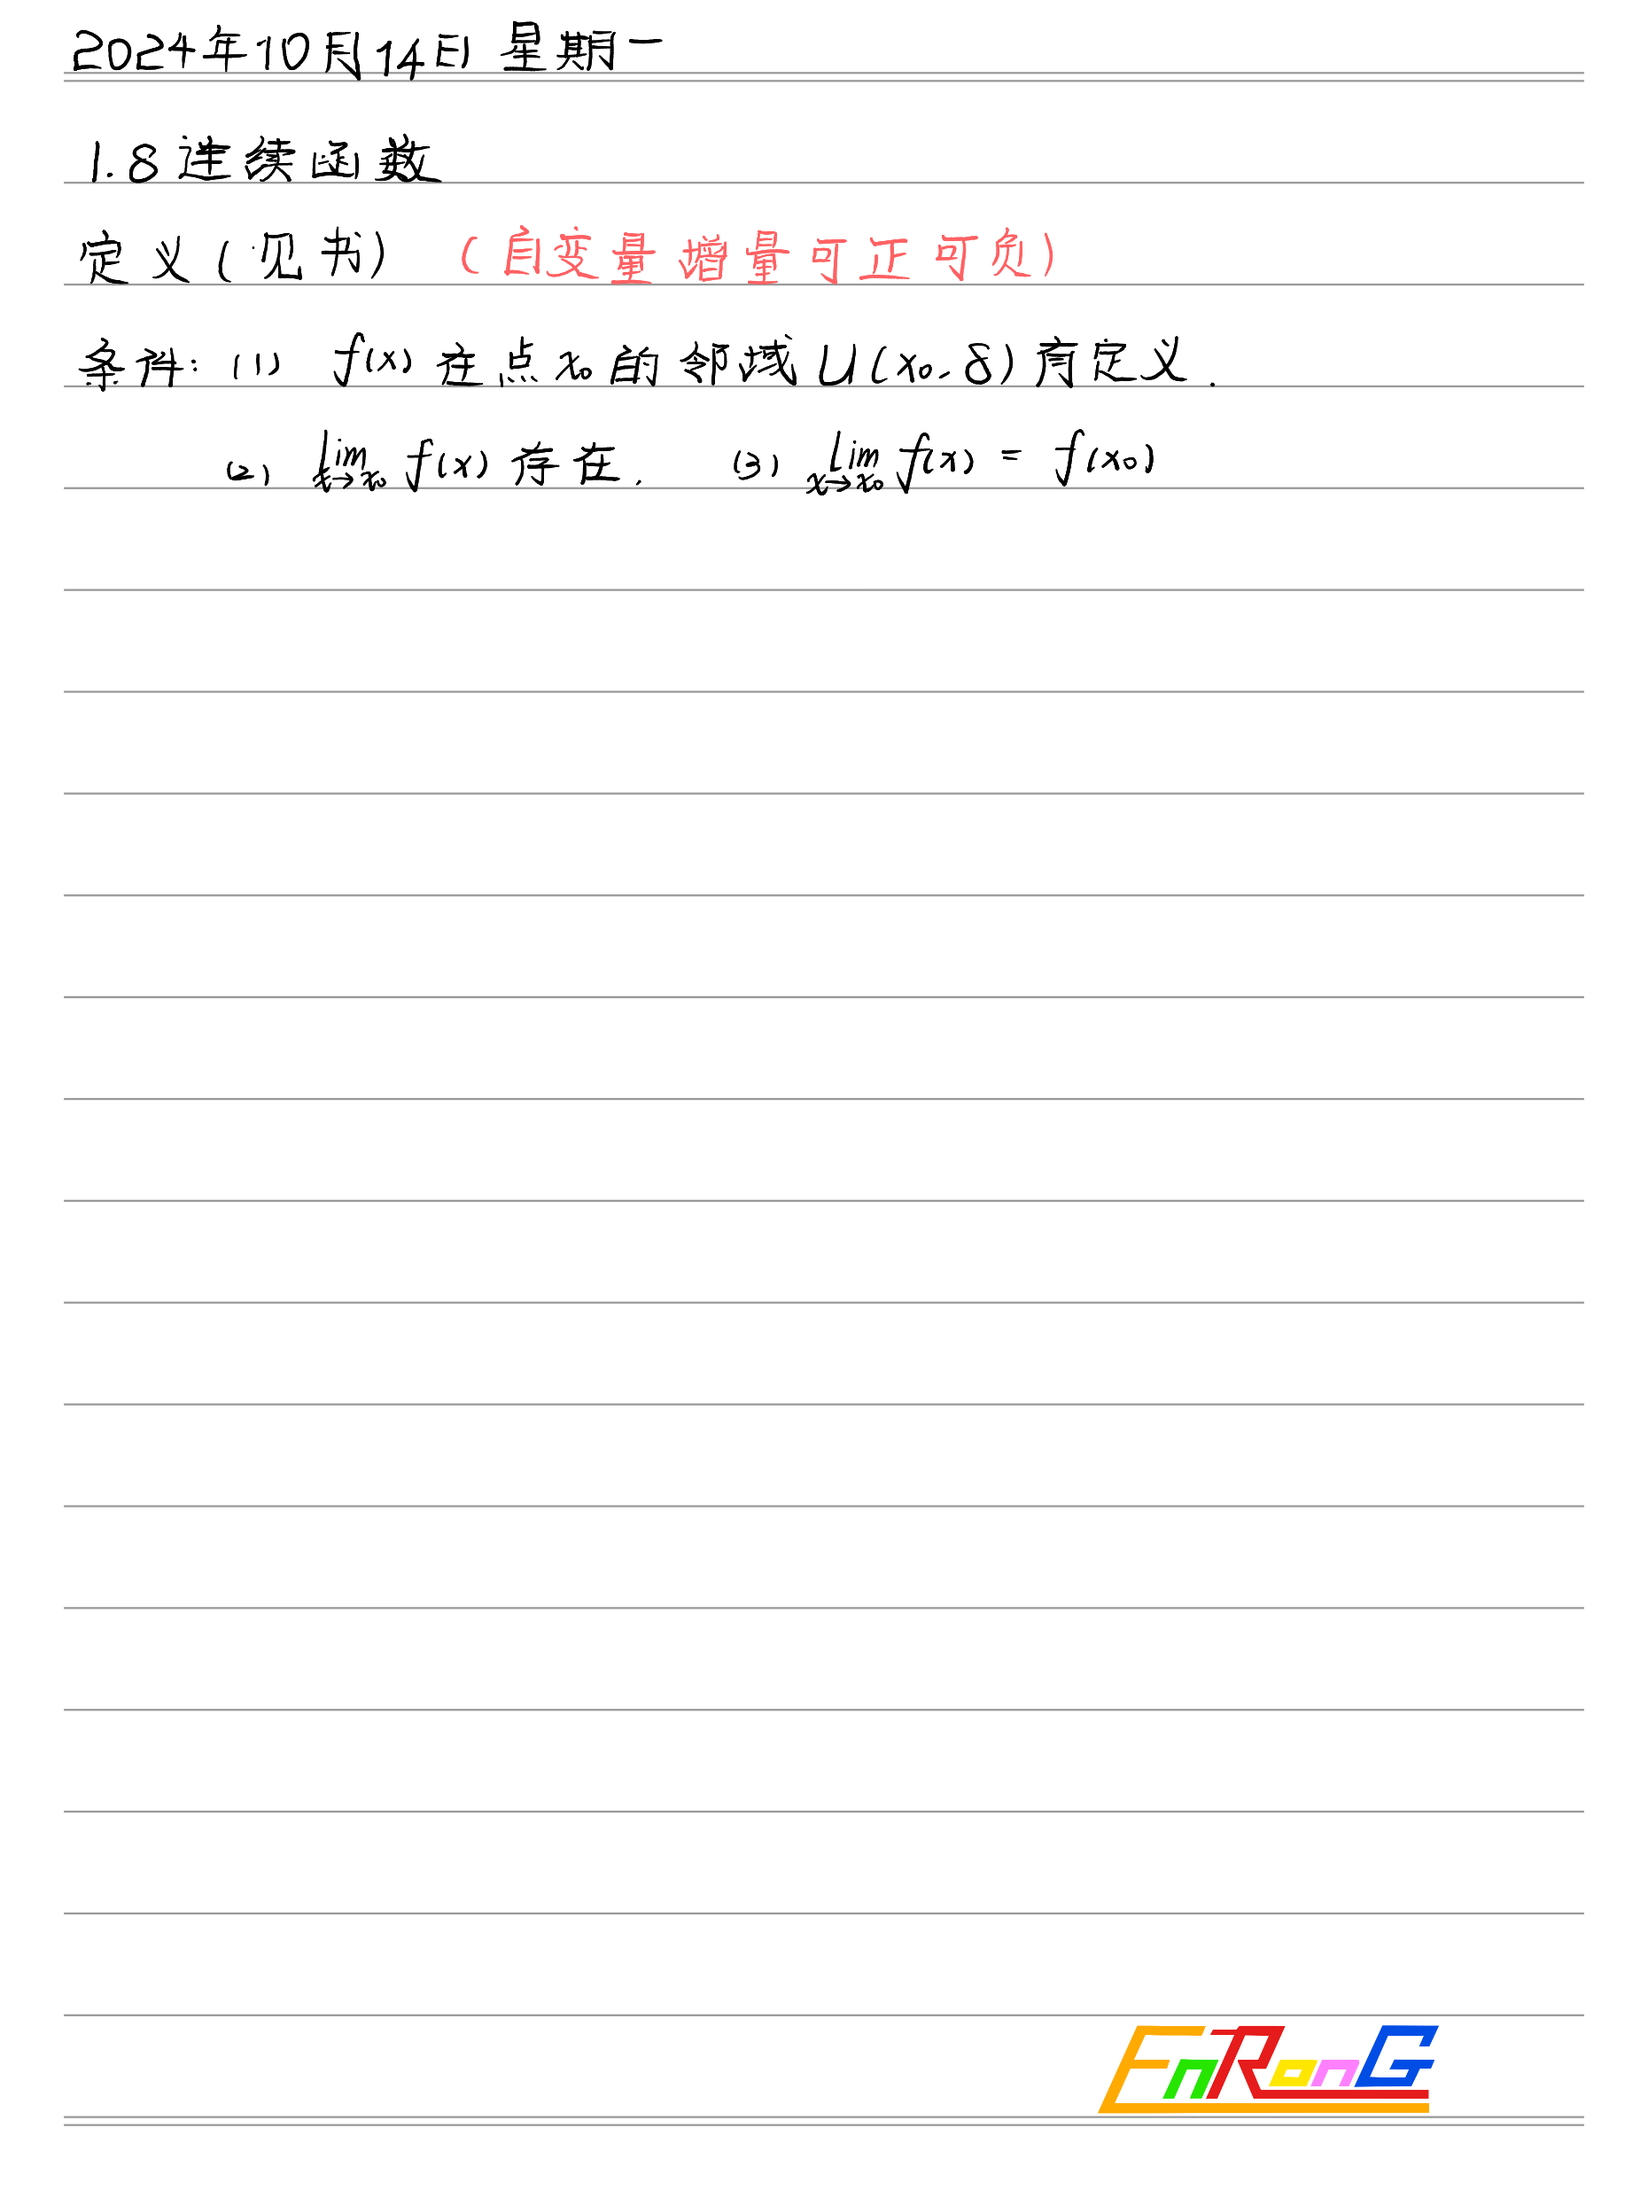
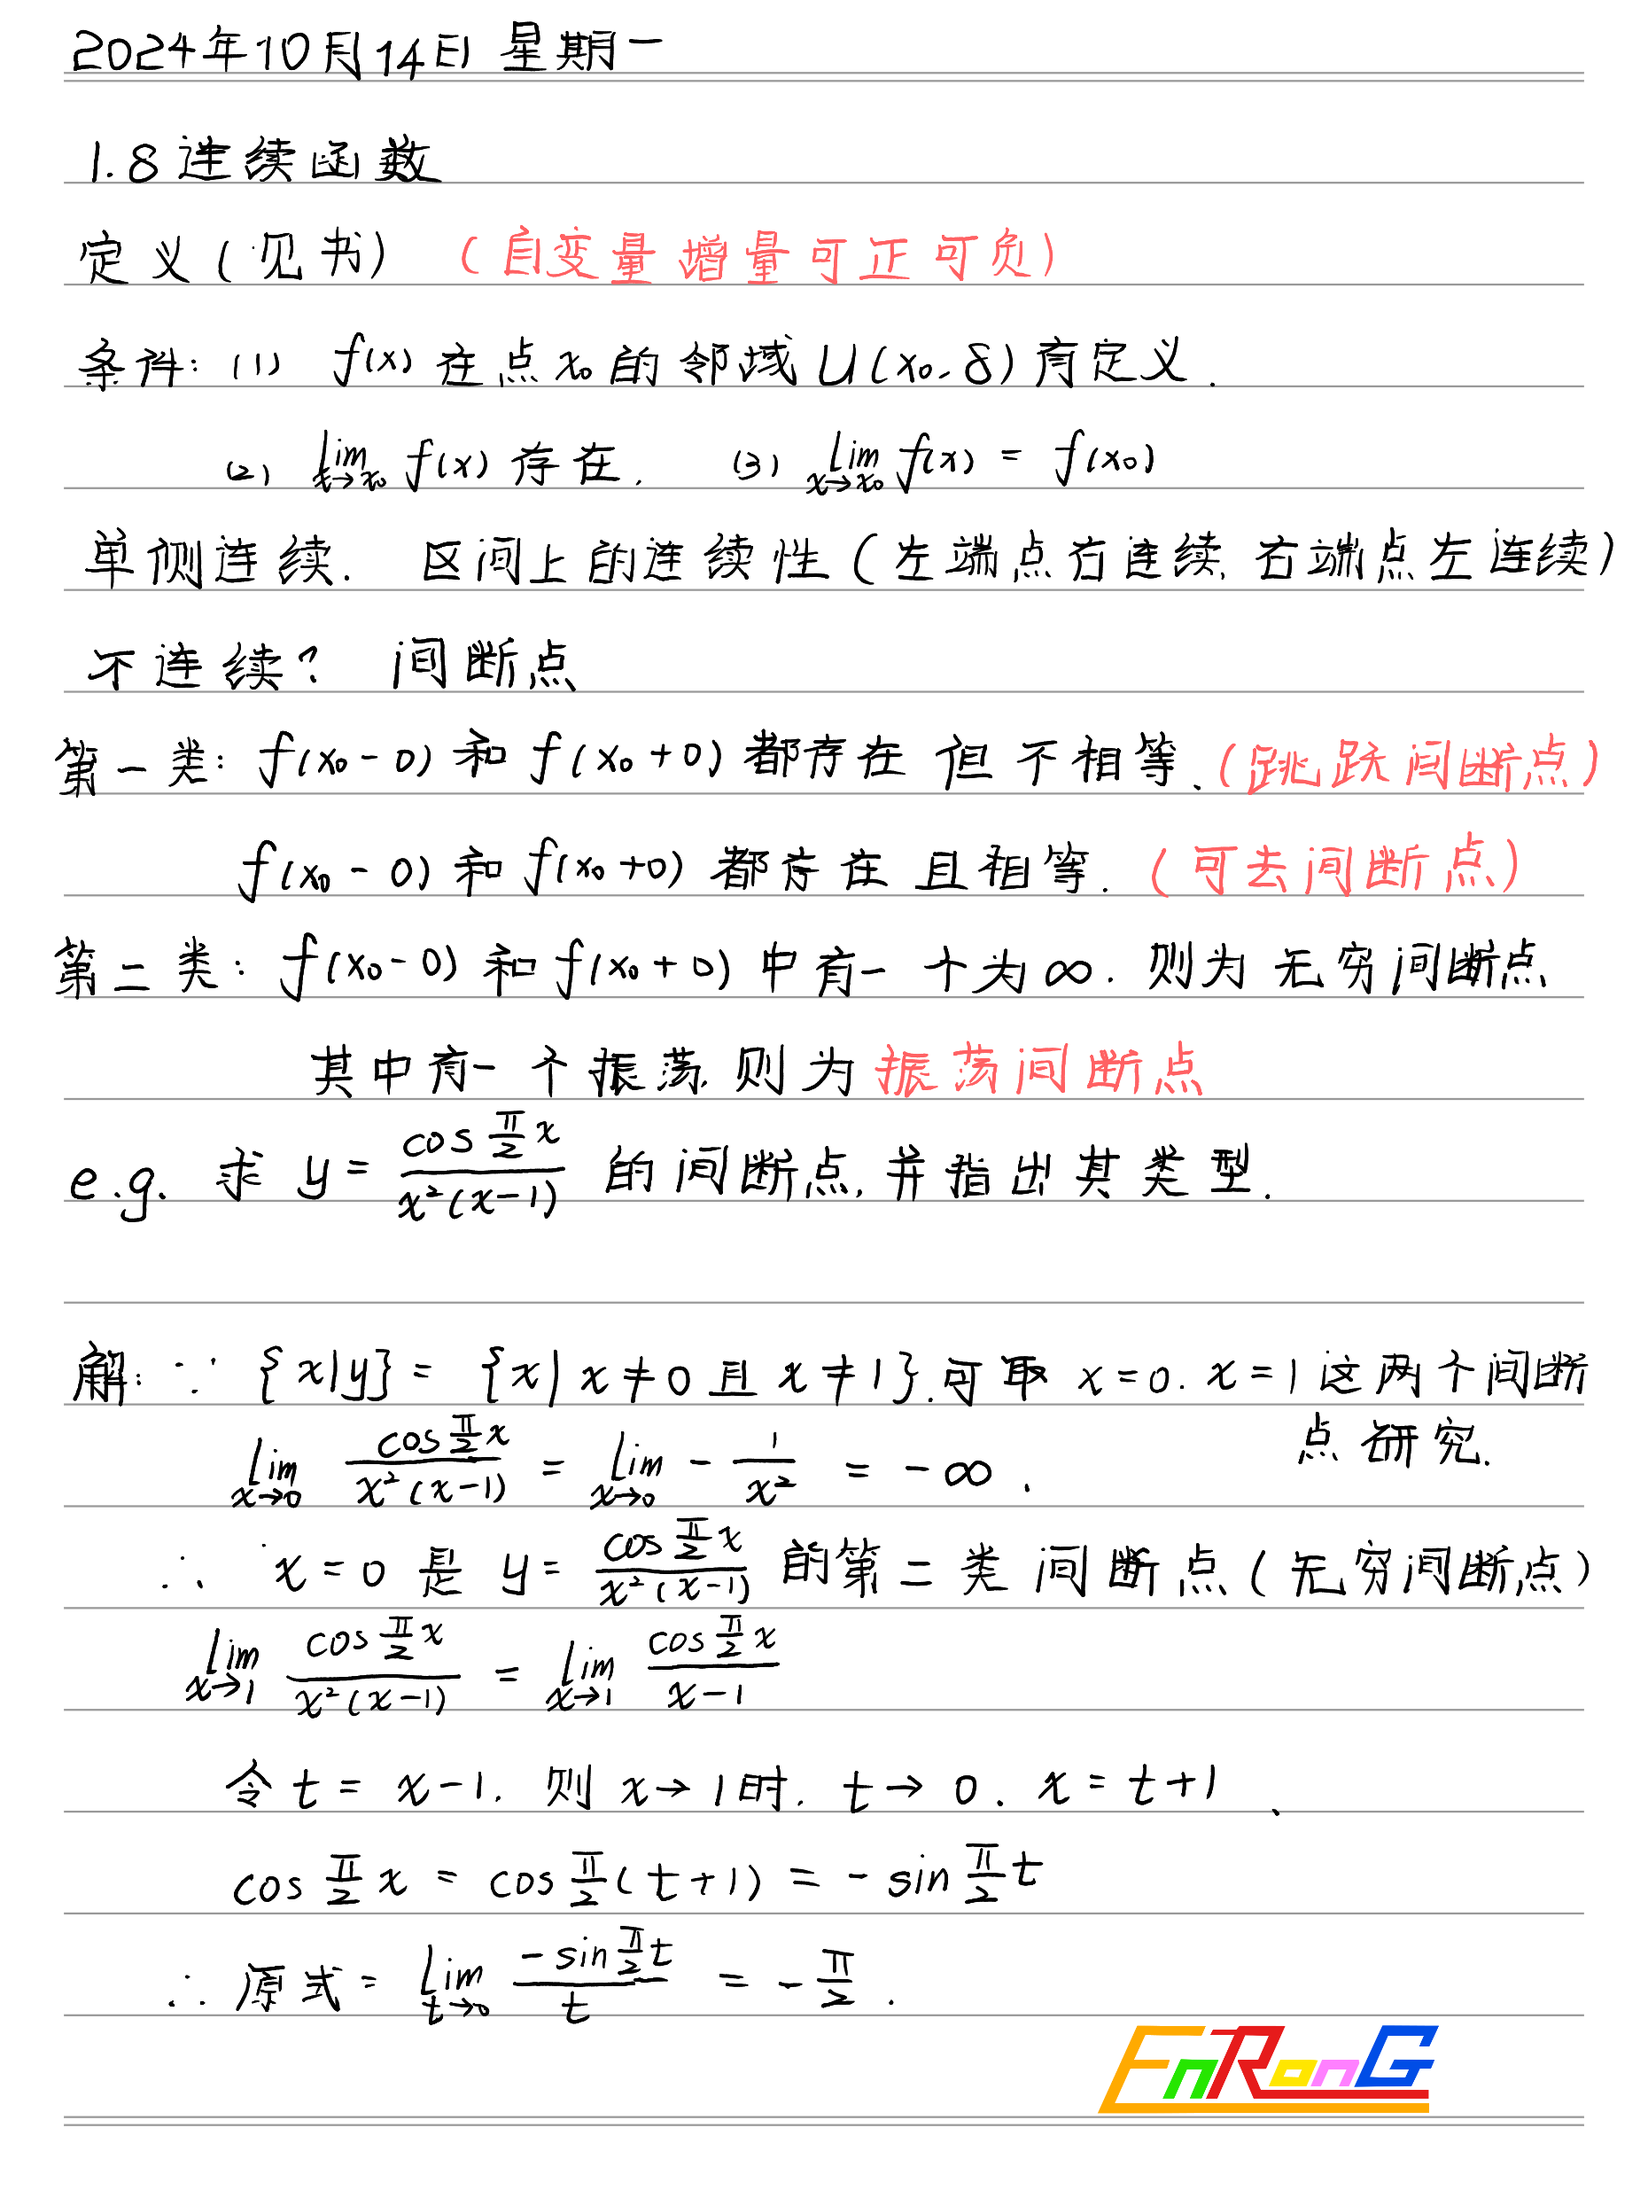
[Update] 更新高等数学笔记 更新高等数学笔记，并修正之前笔记的部分错误。

diff --git a/[大一上] 高等数学（I）/高等数学（I） - EnRonG.md b/[大一上] 高等数学（I）/高等数学（I） - EnRonG.md
@@ -32,3 +32,7 @@
 ![高等数学（32）](assets/高等数学（32）.png)
 ![高等数学（33）](assets/高等数学（33）.png)
 ![高等数学（34）](assets/高等数学（34）.png)
+![高等数学（35）](assets/高等数学（35）.png)
+![高等数学（36）](assets/高等数学（36）.png)
+![高等数学（37）](assets/高等数学（37）.png)
+
